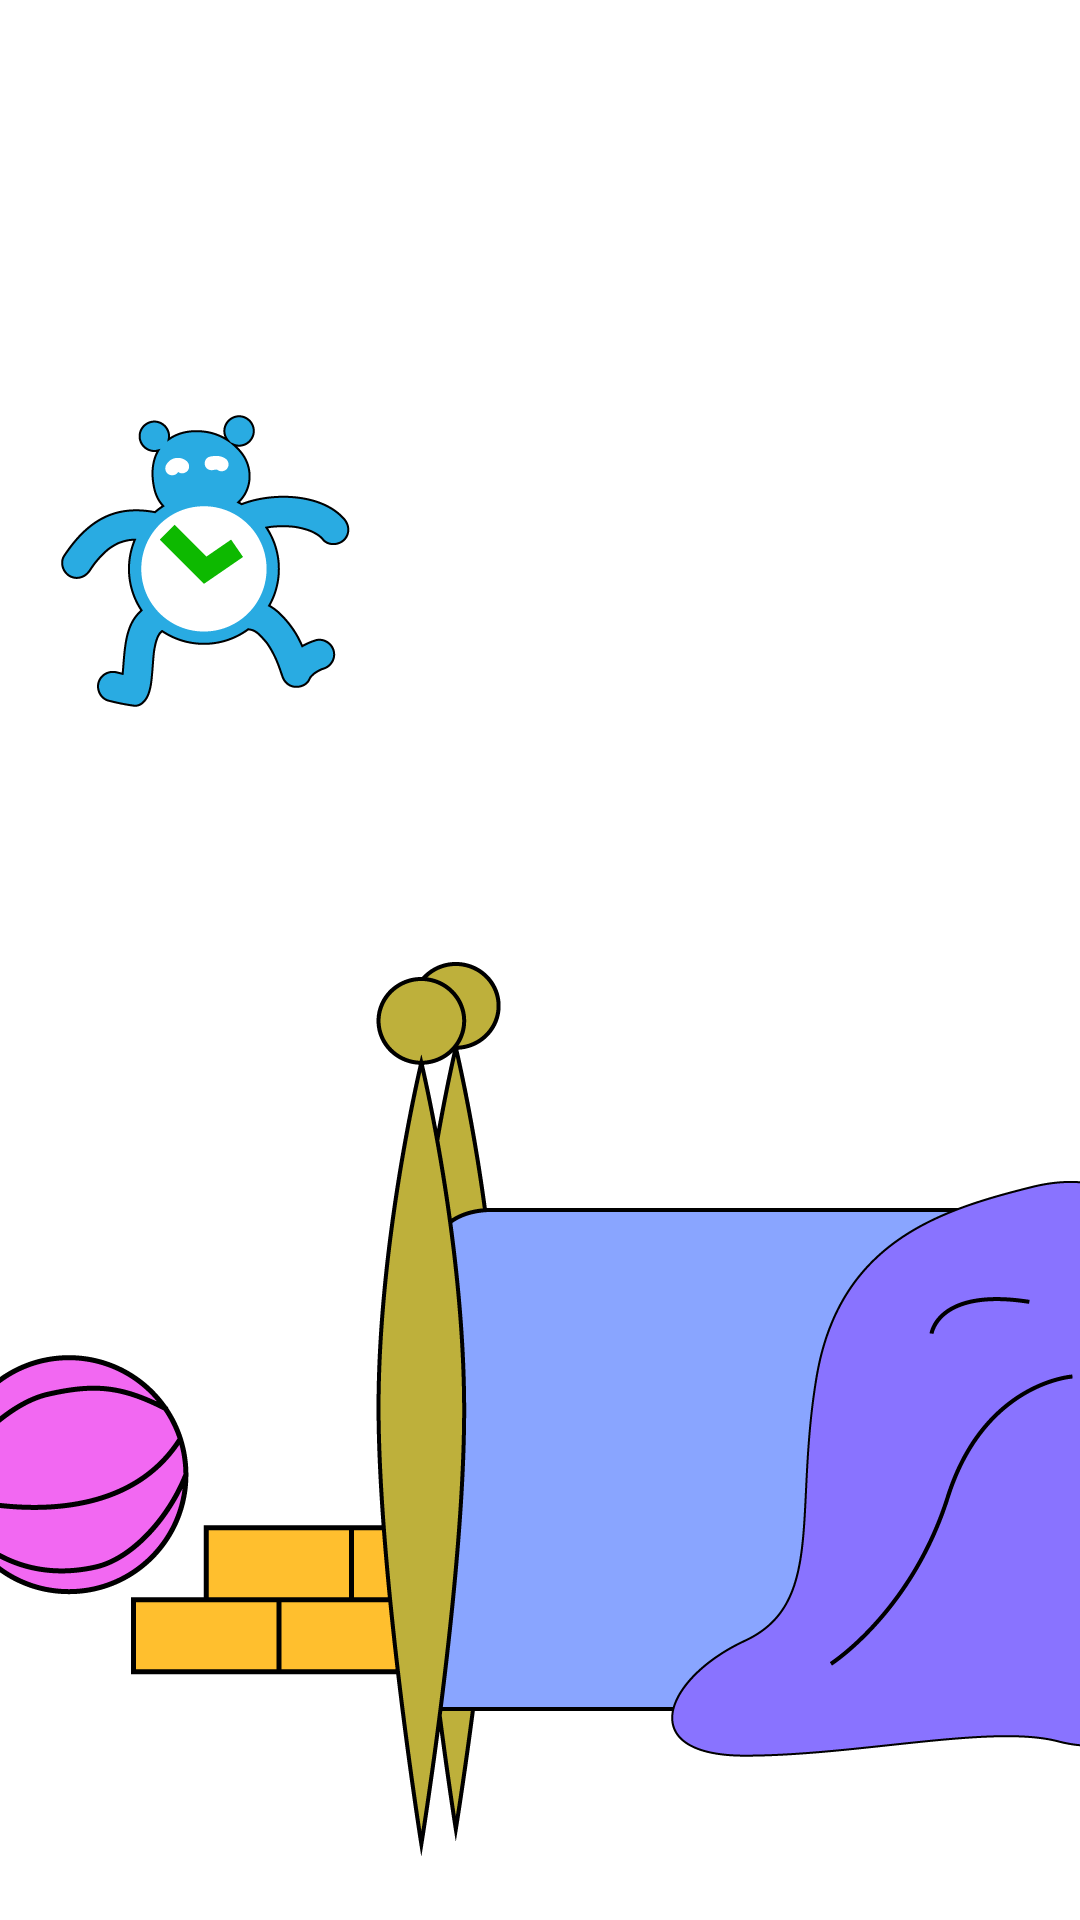
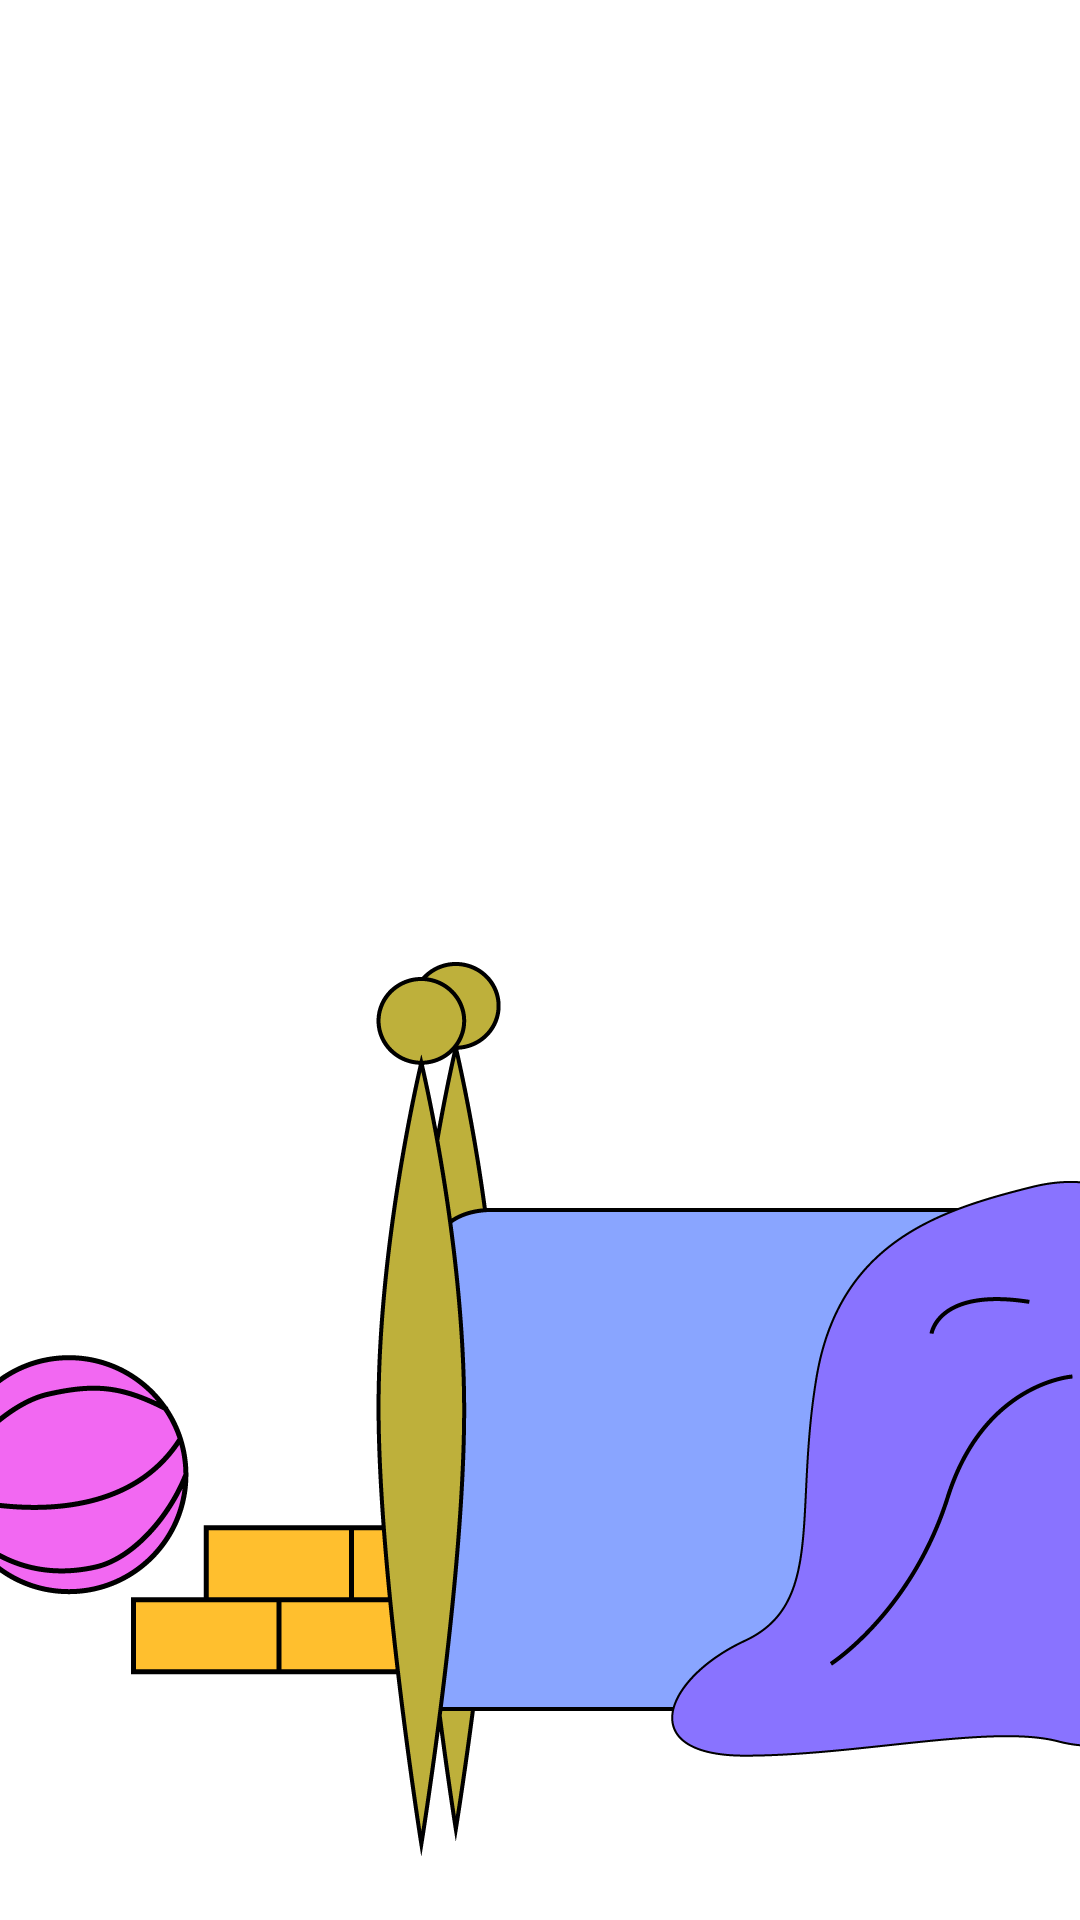
add bear clock sprite animation to bedside scene

Changed region(s): [[0.0611, 0.2188, 0.3361, 0.375]]

diff --git a/app/client/templates/animation/bedside.html b/app/client/templates/animation/bedside.html
@@ -2,6 +2,7 @@
   <div id="stage">
     <div class="set bedroom-wall"></div>
     <div class="set bedroom-bedside"></div>
+    <div class="bear-clock"></div>
     <div class="coach-mellow"></div>
   </div>
 </template>
